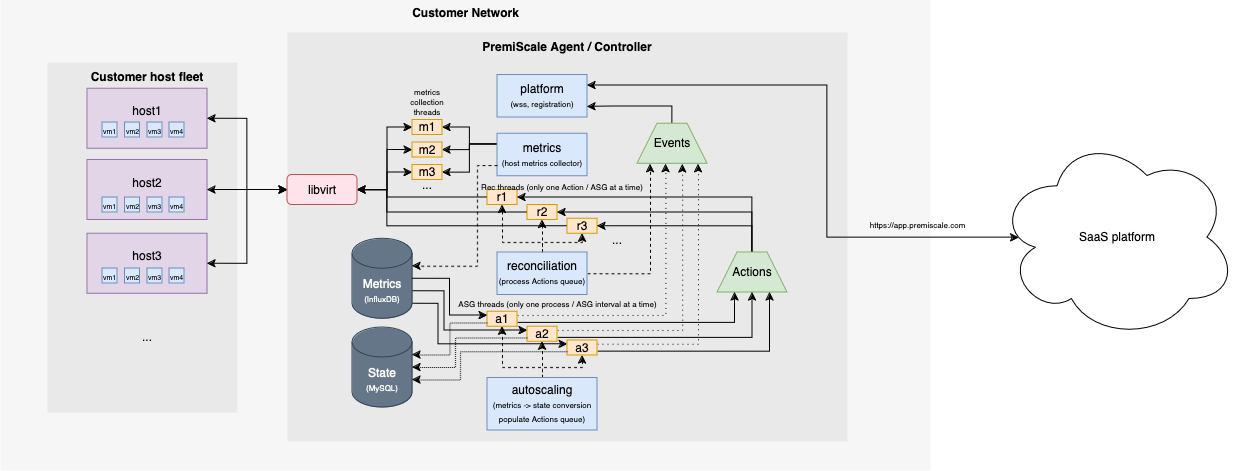
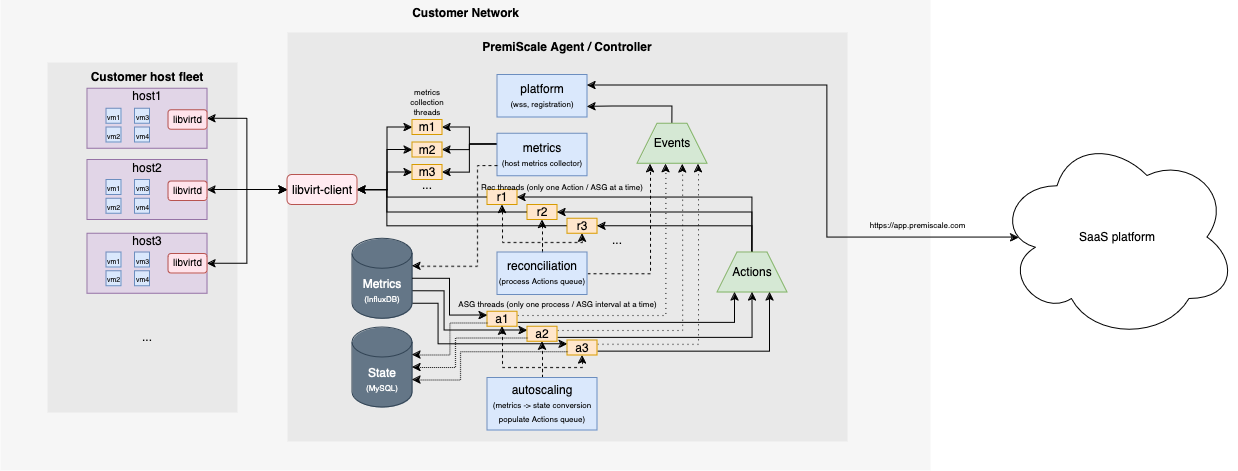
switch-config-parse-to-attrs: minor nit about arch diagram

diff --git a/README.md b/README.md
@@ -1,10 +1,10 @@
 # PremiScale
 
-PremiScale is a controller that brings autoscaling of virtual infrastructure to loca, self-hosted and private datacenters, with a particular focus on integrating with the Kubernetes [autoscaler](https://github.com/kubernetes/autoscaler).
+PremiScale is a controller that brings autoscaling of virtual infrastructure to local, self-hosted and private datacenters, with a particular focus on integrating with the Kubernetes cluster [autoscaler](https://github.com/kubernetes/autoscaler).
 
 ## Architecture
 
-PremiScale is a controller that administers hosts and virtual machines by leveraging [libvirt](https://libvirt.org/). Libvirt is a very flexible open source hypervisor API.
+PremiScale is a controller that administers hosts and virtual machines by leveraging [libvirt](https://libvirt.org/). Libvirt is a very flexible open source hypervisor API and daemon that runs on hosts.
 
 See the [architecture diagram](https://drive.google.com/file/d/1hjwaMVQESdU2KffEJ4FpWDC1hjVHCLZX/view?usp=sharing) for PremiScale, or check out the diagram below, for an overview of just the controller.
 
